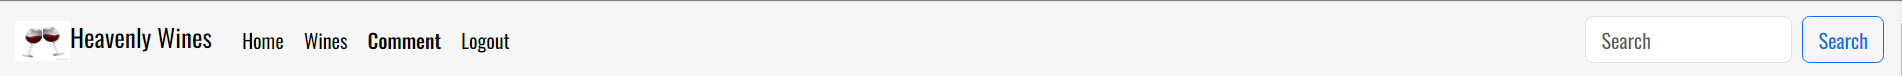
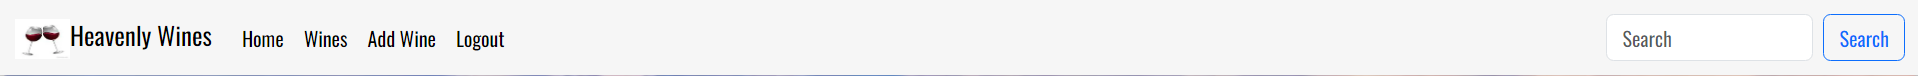
Add database diagram and images of website to the Readme file

diff --git a/templates/base.html b/templates/base.html
@@ -2,10 +2,10 @@
 
 <!DOCTYPE html>
 <html lang="en">
-  <head>
-    <meta charset="UTF-8" />
-    <meta http-equiv="X-UA-Compatible" content="IE=edge" />
-    <meta name="viewport" content="width=device-width, initial-scale=1.0" />
+    <head>
+    <meta charset="UTF-8"/>
+    <meta http-equiv="X-UA-Compatible" content="IE=edge"/>
+    <meta name="viewport" content="width=device-width, initial-scale=1.0"/>
     {% block extra_css %}
     <link
       rel="stylesheet"
@@ -13,20 +13,20 @@
       integrity="sha384-T3c6CoIi6uLrA9TneNEoa7RxnatzjcDSCmG1MXxSR1GAsXEV/Dwwykc2MPK8M2HN"
       crossorigin="anonymous"
     />
-    <link rel="stylesheet" href="{% static 'css/base.css' %}" />
-    {% endblock %} {% block onload_js %}
+    <link rel="stylesheet" href="{% static 'css/base.css' %}"/>
+        {% endblock %} {% block onload_js %}
     <script
       src="https://cdn.jsdelivr.net/npm/bootstrap@5.3.2/dist/js/bootstrap.min.js"
       integrity="sha384-BBtl+eGJRgqQAUMxJ7pMwbEyER4l1g+O15P+16Ep7Q9Q+zqX6gSbd85u4mG4QzX+"
       crossorigin="anonymous"
     ></script>
-    {% endblock %}
+        {% endblock %}
     <title>Heavenly Wines - {% block title %}{% endblock %}</title>
-  </head>
-  <body>
+    </head>
+    <body>
     {% include 'includes/header.html' %}
     <main>{% block content %} {% endblock %}</main>
 
     {% include 'includes/footer.html' %}
-  </body>
+    </body>
 </html>

diff --git a/wines/templates/wines/index.html b/wines/templates/wines/index.html
@@ -1,13 +1,13 @@
-{% extends 'base.html' %} 
+{% extends 'base.html'%}
 {% load static %}
-{% block title %} Home Page {% endblock %} 
+{% block title %} Home Page {% endblock %}
 
 {% block content %}
 
 <div class="bg-image p-5 text-center shadow-1-strong rounded mb-5 text-black"
     style="background-image: url('https://res.cloudinary.com/dhz8l5b2j/image/upload/v1703023889/static/images/main.5a378bb6d5fb.jpg');">
     <h1 class="display-4">Heavenly Wines Club</h1>
-    <p class="lead">We are well known experts in the world of wines with
+    <p class="lead">We are well-known experts in the world of wines with
     great reviews.</p>
     <hr class="my-4">
     <p>If you want to learn more about us, then just click the button below.</p>

diff --git a/README.md b/README.md
@@ -8,6 +8,7 @@ Heavenly Wines is a wine club where we select three different types of wines eac
 Database Structure
 
 Database Schema
+![Heavenly Wines Database](static/images/hw-database-diagram.png)
 
 Models
 
@@ -76,9 +77,9 @@ Footer
 400 Error
 
 - Broken link to page.
-- Error due favicon not working.
+- Error was due to a forward slash on a image links.
 
-  ![Error 400](static/images/)
+  ![Error 400](static/images/bad-err.PNG)
 
 ### Home Screen
 
@@ -90,60 +91,67 @@ Footer
 
   - The user is shown a screen with a brief description of the website with different links on the header and footer to other screens.
 
-    ![Home Screen](static/images/hw-homepage.PNG)
+    ![Home Screen](static/images/hw-home.PNG)
 
 ### About Screen
 
 - About Screen Image
 
-  - The user is shown with an image of a 
+  - The user is shown with an image of wine region in the background.
 
 - About Screen Description
 
-  - The user is displayed with the 
+  - The user is shown as title and description of the website with a bottle of wine with the form.The bottle can be click to lead to the description of the wine.
 
-    ![About Screen](static/images/hw-homepage.PNG)
+    ![About Screen](static/images/hw-about.PNG)
 
 ## Wines Page
 
 - Wines Screen Image
 
-  - The user is shown with an image of a electrician coming to Konnect to the game as the electricity flows through the game.
+  - The user is shown with an image with a red bricked wall with a window and four glasses of wine on a table.
 
 - Wines Screen Description
 
-  - The user is displayed with the game as per the game rules shown in the about screen.
+  - The user is shown with a bottle of wine with a description below on card that's happen when you submit the form to add a wine.
 
-![Wines Screen](static/images/hw-wines-page.PNG)
+![Wines Screen](static/images/hw-wines.PNG)
 
-## Comment Page
+## Add Wine Page
 
-- Comment Screen Image
+- Add Wine Screen Image
 
-  - The user is shown with an image of a electrician coming to Konnect to the game as the electricity flows through the game.
+  - The user is shown with an image of a pink bottle of wine and a glass on the table with a silhouette that given tranquil setting.
 
-- Comment Screen Description
+- Add Wine Screen Description
 
-  - The user is displayed with the game as per the game rules shown in the about screen.
-![Comment Screen](static/images/hw-comment-page.PNG)
+  - The user is displayed with a form to enter a wine on the screen and submit the information.
+![Add Wine Screen](static/images/hw-add-wine.PNG)
 
-## Review Page
+## Wine Details Page
 
-- Detail Screen Image
+- Wine Detail Screen Image
 
-  - The user is shown with an image of a electrician coming to Konnect to the game as the electricity flows through the game.
+  - The user is shown with an image a marble background.
 
-- Detail Screen Description
+- Wine Detail Screen Description
 
-  - The user is displayed with the game as per the game rules shown in the about screen.
+  - The user is displayed with the a full description of the wine and an image.
   
 ![Wine Details Screen](static/images/hw-wines-page.PNG)
 
-# Extra Features
+## Extra Features
 
-# Future Implementation
+- Search Function on the header.
+- Social Media Links on the footer.
 
-# Design
+
+## Future Implementation
+
+-To incorporate a feature where you can purchaes the wines on the site with a link to payment method.
+
+
+## Design
 
 Wireframes - Balsamiq.com
 
@@ -157,19 +165,19 @@ Wireframes - Balsamiq.com
 
 - Wines Screen
 
-  ![Wines Screen](static/images/)
+  ![Wines Screen](static/images/hw-wines-mockup.PNG)
 
-  Comment Screen
+- Add Wine Screen
 
-  ![Comment Screen](static/images/hw-wine-reviews-mockup.PNG)
+  ![Add Wine Screen](static/images/hw-wines-mockup.PNG)
 
-  Detail Screen
+- Detail Screen
 
   ![Detail Screen](static/images/hw-detail-mockup.PNG)
 
-  ![D Screen](static/images/)
+  
 
-# Technologies
+## Technologies
 
 HTML
 
@@ -422,7 +430,7 @@ Validation Testing
 
   - bass.css
 
-    ![Heavenly Wines Screens](assets/images/konnect-ccs-validation.PNG)
+    ![Heavenly Wines Screens](static/images/hw-ccs-validation.PNG)
 
 - Unfixed Bugs
 
